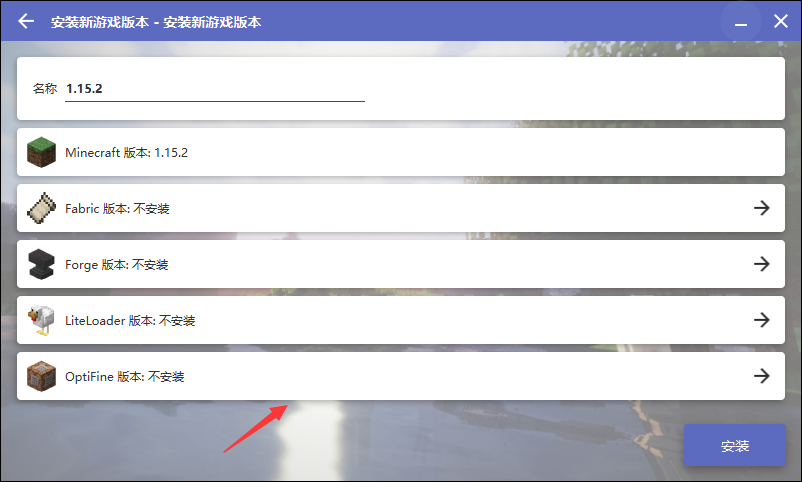
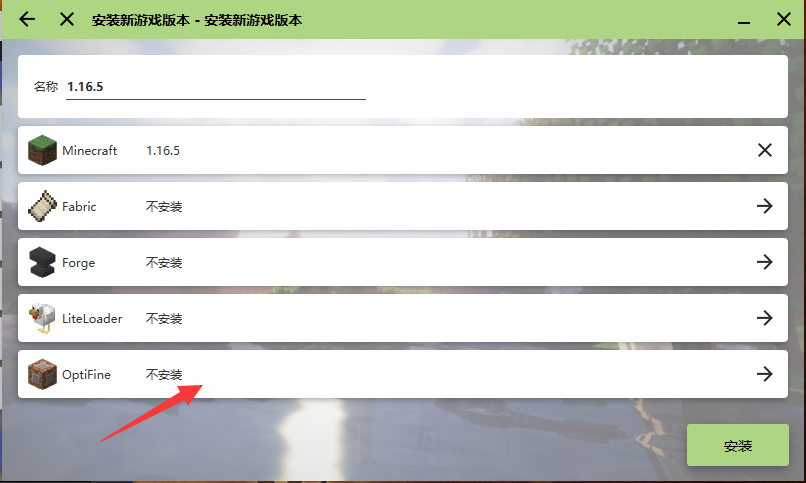
Update to 1.16.5

diff --git a/README.md b/README.md
@@ -4,15 +4,15 @@
 
 ## 简介
 
-服务器版本：1.15.2
+服务器版本：1.16.5
 
 **服务器地址：`mc.fuhymc.cn`**
 
 备用地址：`play.fuhymc.cn:10086` \(上面那个加不进去就用这个\)
 
-玩法：粘液科技 ~~以及咕咕咕的腐竹~~
+玩法：粘液科技以及大量附属 + 危险洞穴 + 更多附魔
 
-特色：使用[LittleSkin](https://mcskin.littleservice.cn/)的外置登录，让各玩家能互相看到皮肤
+特色：使用[LittleSkin](https://mcskin.littleservice.cn/)的外置登录，各玩家能互相看到皮肤
 
 QQ群：[点击这里或搜索群号1079084078加入](https://jq.qq.com/?_wv=1027&k=bw6B6MKN)
 
@@ -28,7 +28,7 @@ QQ群：[点击这里或搜索群号1079084078加入](https://jq.qq.com/?_wv=102
 
 ### LittleSkin的基本使用
 
-* 打开注册时你所使用的邮箱，找到LittleSkin给你发来的邮箱验证邮件并点击按钮验证你的邮箱。
+* 打开注册时你所使用的邮箱，找到LittleSkin发送的邮箱验证邮件并点击按钮验证你的邮箱。
 * 在网页侧边栏中创建一个角色，这个角色的名字即为你的游戏名。
 * 如果你希望你在游戏中的角色不是史蒂夫，请在皮肤库选择你喜欢的皮肤，或者上传新皮肤，并把你的皮肤应用到你创建的角色上。
 
@@ -65,11 +65,11 @@ QQ群：[点击这里或搜索群号1079084078加入](https://jq.qq.com/?_wv=102
 
 ![](https://cdn.jsdelivr.net/gh/dixiatielu/fuhymc-docs/.gitbook/assets/xia-zai-he-qi-dong-you-xi-1.png)
 
-按照图片中的指示，安装MC1.15.2。
+按照图片中的指示，安装MC1.16.5。
 
 > 这里建议使用我的世界中文论坛的下载源（已切换好），这样会快一些。
 
-![&#x5207;&#x6362;&#x4E0B;&#x8F7D;&#x6E90;](https://cdn.jsdelivr.net/gh/dixiatielu/fuhymc-docs/.gitbook/assets/image%20%284%29.png)
+![](https://cdn.jsdelivr.net/gh/dixiatielu/fuhymc-docs/.gitbook/assets/image (4).png)
 
 ![](https://cdn.jsdelivr.net/gh/dixiatielu/fuhymc-docs/.gitbook/assets/xia-zai-he-qi-dong-you-xi-3.png)
 
@@ -81,9 +81,9 @@ QQ群：[点击这里或搜索群号1079084078加入](https://jq.qq.com/?_wv=102
 
 稍等片刻，等待游戏版本安装完成。
 
-最后，回到HMCL启动器首页启动Minecraft1.15.2。
+最后，回到HMCL启动器首页启动Minecraft。
 
-![&#x542F;&#x52A8;&#x6E38;&#x620F;](https://cdn.jsdelivr.net/gh/dixiatielu/fuhymc-docs/.gitbook/assets/image%20%286%29.png)
+![](https://cdn.jsdelivr.net/gh/dixiatielu/fuhymc-docs/.gitbook/assets/image (6).png)
 
 ### 添加服务器并开始游戏
 
